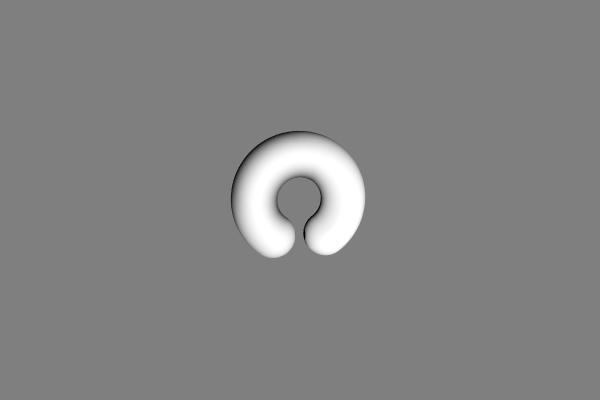
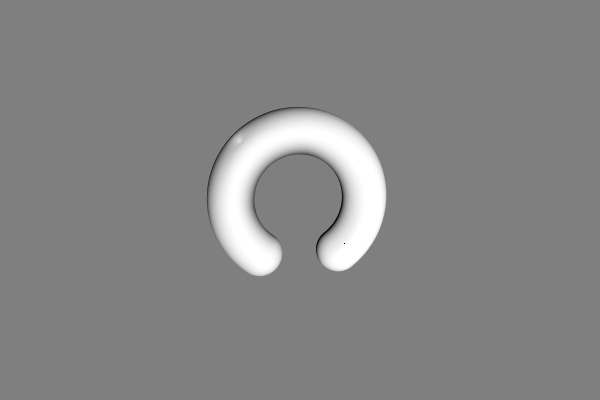
FinTp7

Changed region(s): [[0.33, 0.27, 0.66, 0.69]]

diff --git a/src/scene.cpp b/src/scene.cpp
@@ -220,23 +220,23 @@ namespace RT_ISICG
 		_addMaterial( new MatteMaterial( "GreyMatte", GREY, 0.6f ) );
 		_addMaterial( new MatteMaterial( "MagentaMatte", MAGENTA, 0.6f ) );
 
-		_addObject( new ImplicitSphere( "Sphere", Vec3f( 1.f, 1.f, 1.f ), 1.f ) );
+		/*_addObject( new ImplicitSphere( "Sphere", Vec3f( 1.f, 1.f, 1.f ), 1.f ) );
 		_attachMaterialToObject( "WhiteMatte", "Sphere" );
-		_addLight( new PointLight( Vec3f( 1.5f, 2.f, -3.f ), WHITE, 60.f ) );
+		_addLight( new PointLight( Vec3f( 1.5f, 2.f, -3.f ), WHITE, 60.f ) );*/
 
 
 
-		//_addObject( new ImplicitRoundBox( "Box", Vec3f( 1.f, 1.f, 1.f ), Vec3f(1.f,0.5f,1.f), 0.2f ) );
-		//_attachMaterialToObject( "WhiteMatte", "Box" );
-		//_addLight( new PointLight( Vec3f( 1.f, 3.f, -3.f ), WHITE, 60.f ) );
+		/*_addObject( new ImplicitRoundBox( "Box", Vec3f( 1.f, 1.f, 1.f ), Vec3f( 1.f, 0.5f, 1.f ), 0.2f ) );
+		_attachMaterialToObject( "WhiteMatte", "Box" );
+		_addLight( new PointLight( Vec3f( 1.f, 3.f, -3.f ), WHITE, 60.f ) );*/
 
-		//_addObject( new ImplicitPrism("Prism",Vec3f(1.f,1.f,1.f), Vec2f(1.f,1.f) ));
-		//_attachMaterialToObject( "WhiteMatte", "Prism" );
-		//_addLight( new PointLight( Vec3f(4.f, 1.f, -5.f ), WHITE, 100.f ) );
+		/*_addObject( new ImplicitPrism( "Prism", Vec3f( 1.f, 1.f, 1.f ), Vec2f( 1.f, 1.f ) ) );
+		_attachMaterialToObject( "WhiteMatte", "Prism" );
+		_addLight( new PointLight( Vec3f(3.f, 1.f, -5.f ), WHITE, 100.f ) );*/
 
-		//_addObject( new ImplicitCapedTorus( "Torus", Vec3f( 1.f, 1.f, 1.f ), Vec2f( sin(2.5), cos(2.5) ), 0.4f, 0.2f ) );
-		//_attachMaterialToObject( "WhiteMatte", "Torus" );
-		//_addLight( new PointLight( Vec3f( 1.f, 1.f, -4.f ), WHITE, 100.f ) );
+		_addObject( new ImplicitCapedTorus( "Torus", Vec3f( 1.f, 1.f, 1.f ), Vec2f( sin(2.5), cos(2.5) ), 0.6f, 0.2f ) );
+		_attachMaterialToObject( "WhiteMatte", "Torus" );
+		_addLight( new PointLight( Vec3f( 1.f, 1.f, -4.f ), WHITE, 100.f ) );
 		
 		
 		

diff --git a/src/main.cpp b/src/main.cpp
@@ -38,11 +38,11 @@ namespace RT_ISICG
 		//Vec3f p_lookat	 = Vec3f( 0.f, 0.f, 100.f );
 
 		//Tp7 Sphere
-		Vec3f p_position = Vec3f( 2.f, 3.f, -5.f );
-		Vec3f p_lookat	 = Vec3f( 1.f, 1.f, 1.f );
+		//Vec3f p_position = Vec3f( 2.f, 3.f, -5.f );
+		//Vec3f p_lookat	 = Vec3f( 1.f, 1.f, 1.f );
 
 		//Tp7 cube
-		//Vec3f p_position = Vec3f(2.f , 3.f, -5.f );
+		//Vec3f p_position = Vec3f(2.f , 3.f, -3.f );
 		//Vec3f p_lookat	 = Vec3f( 1.f, 1.f, 1.f );
 		
 		//Tp7 triangular prism
@@ -50,8 +50,8 @@ namespace RT_ISICG
 		//Vec3f p_lookat	 = Vec3f( 1.f, 1.f, 1.f );
 
 		//Tp7 round cone
-		//Vec3f p_position = Vec3f( 1.5f, 1.5f, -2.f );
-		//Vec3f p_lookat	 = Vec3f( 1.f, 1.f, 1.f );
+		Vec3f p_position = Vec3f( 1.5f, 1.5f, -2.f );
+		Vec3f p_lookat	 = Vec3f( 1.f, 1.f, 1.f );
 
 		Vec3f p_up		 = Vec3f( 0, 1, 0 );
 		float fov		 = 60.f;
